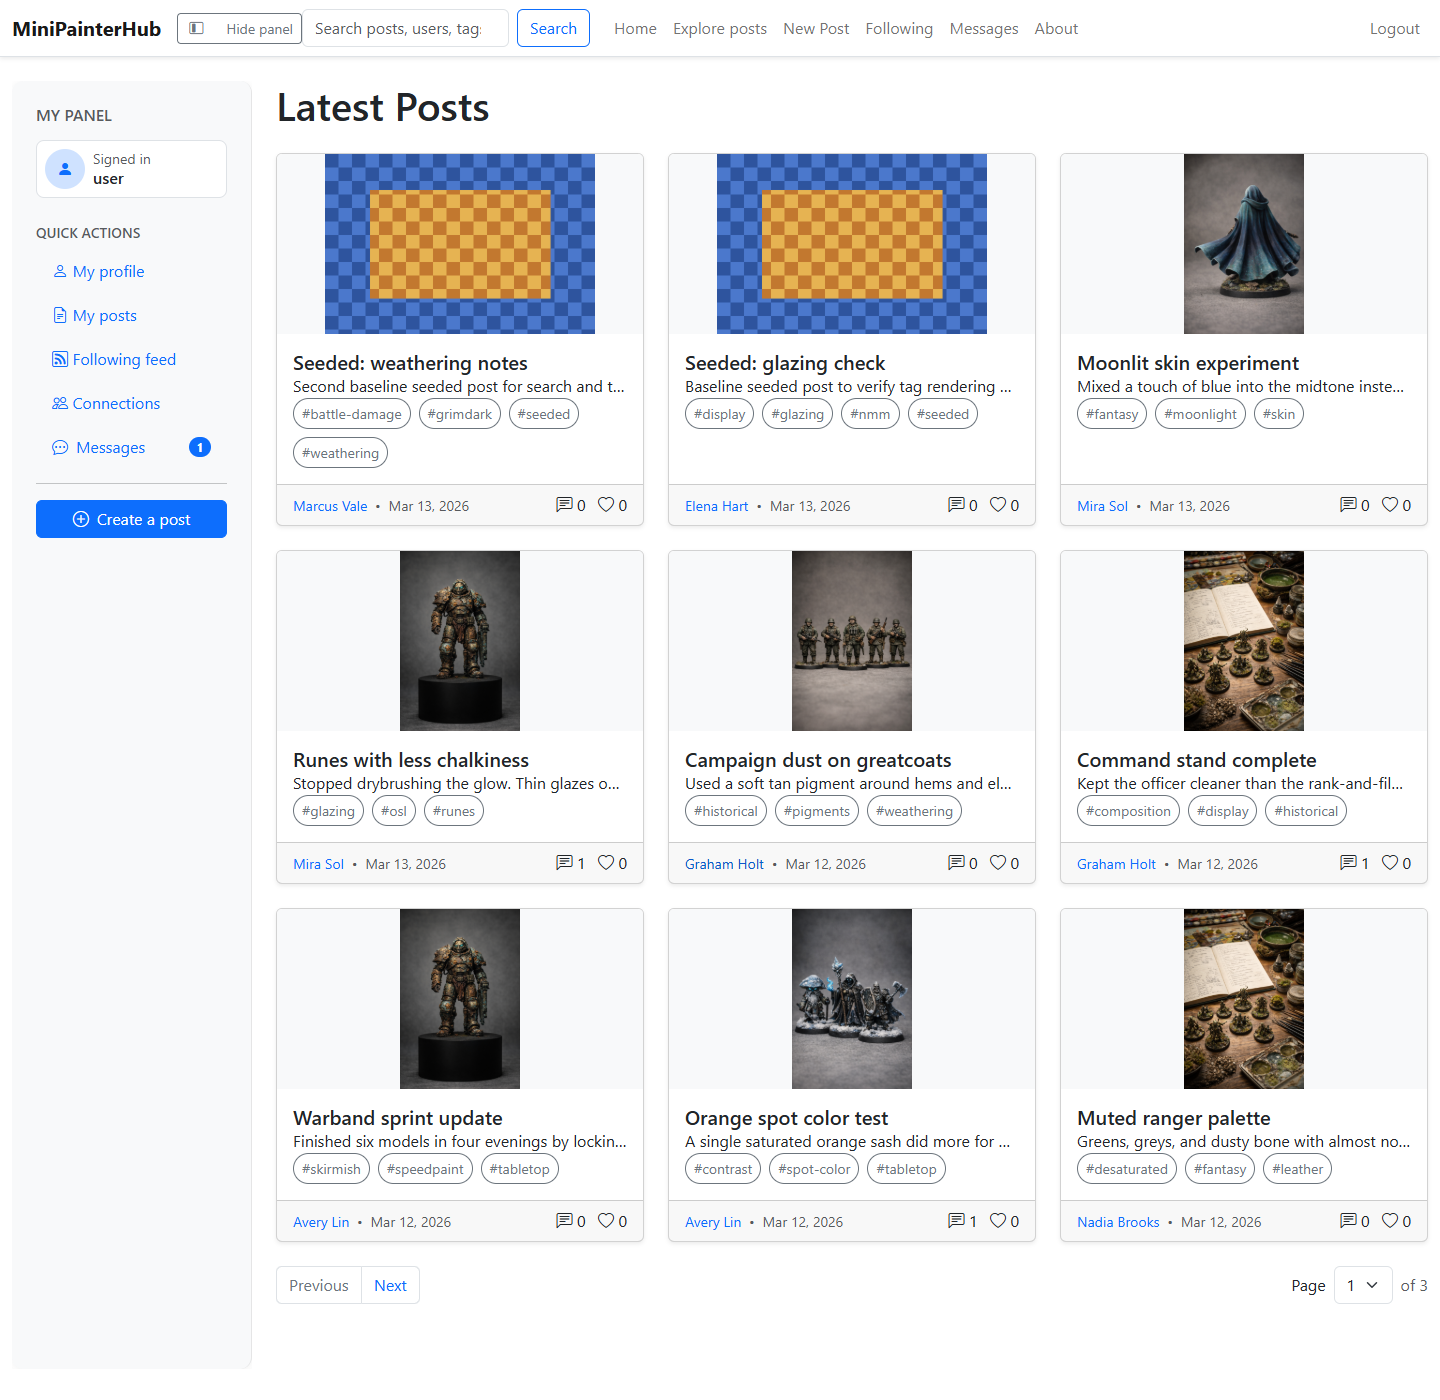
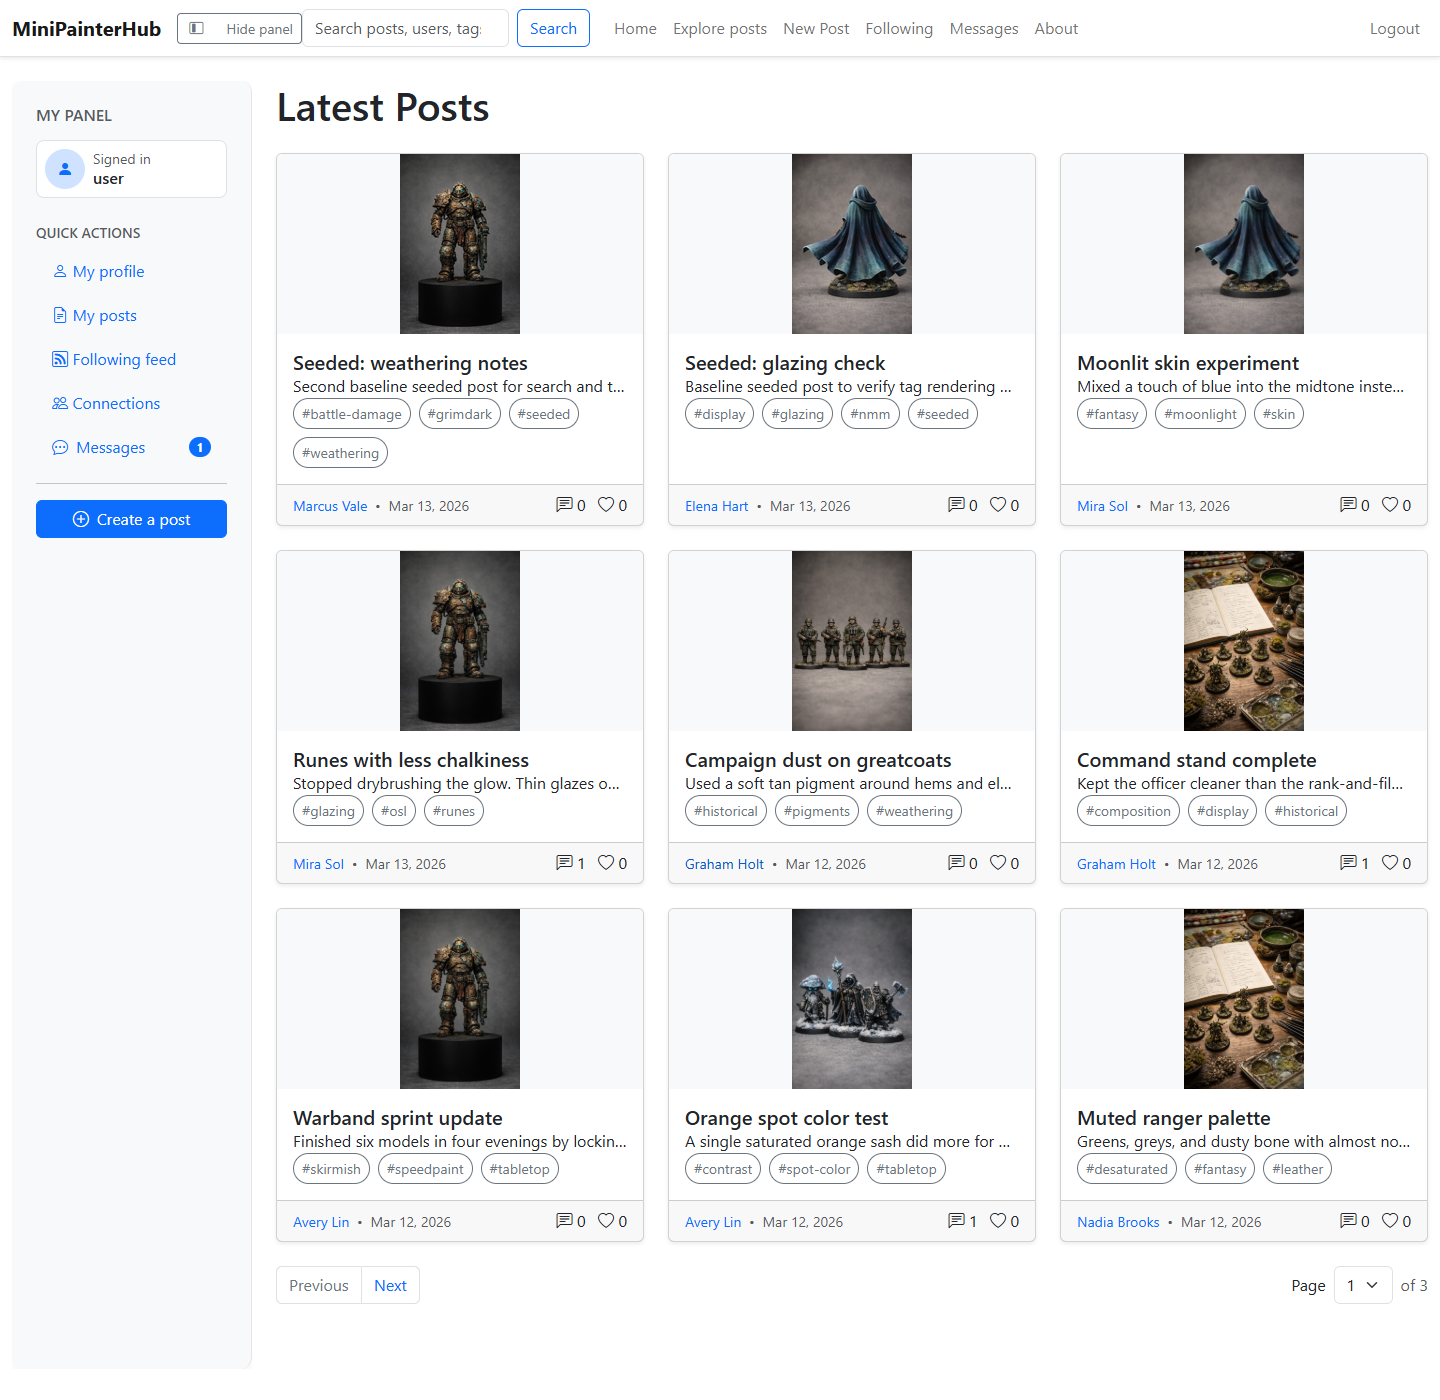
Prevent seeding when posts exist

Changed region(s): [[0.2188, 0.0921, 0.4375, 0.2457], [0.5, 0.0921, 0.6875, 0.2457]]

diff --git a/MiniPainterHub.Server/Data/DataSeeder.cs b/MiniPainterHub.Server/Data/DataSeeder.cs
@@ -229,6 +229,13 @@ namespace MiniPainterHub.Server.Data
         {
             ValidateSeedPosts();
 
+            // Preserve richer seeded datasets instead of layering the baseline
+            // smoke-test posts on top and colliding with existing tags.
+            if (await db.Posts.AnyAsync())
+            {
+                return;
+            }
+
             var existingTags = await db.Tags.ToListAsync();
             var tagsByNormalizedName = existingTags.ToDictionary(tag => tag.NormalizedName, StringComparer.OrdinalIgnoreCase);
             var usedSlugs = existingTags.Select(tag => tag.Slug).ToHashSet(StringComparer.OrdinalIgnoreCase);
